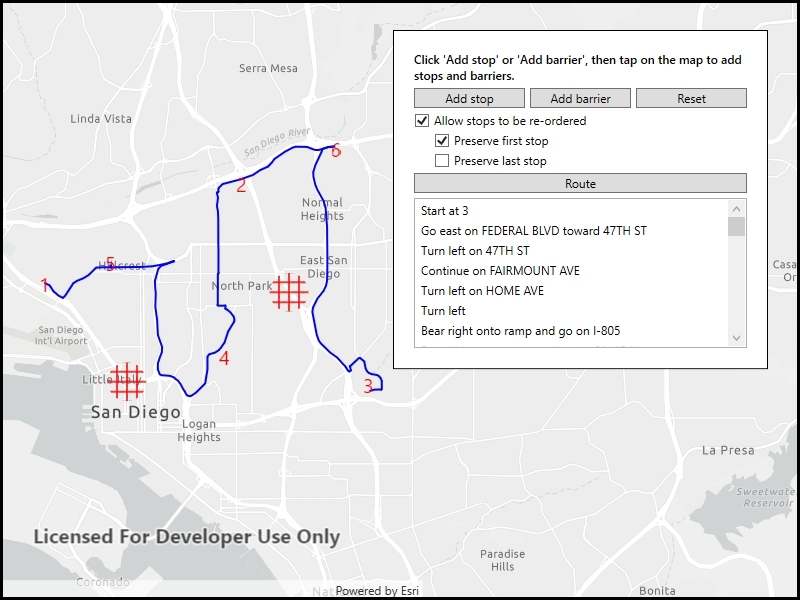
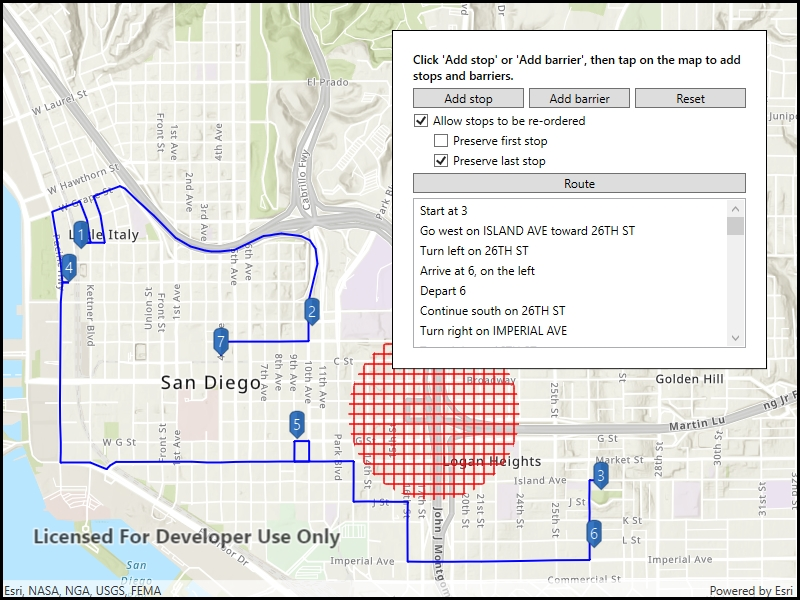
Changes from review

diff --git a/src/Forms/Shared/Samples/Network Analysis/RouteAroundBarriers/RouteAroundBarriers.xaml b/src/Forms/Shared/Samples/Network Analysis/RouteAroundBarriers/RouteAroundBarriers.xaml
@@ -7,7 +7,8 @@
     <RelativeLayout>
         <esriUI:MapView x:Name="MyMapView" Style="{StaticResource MapWithFormStyle}"
                         BindingContext="{x:Reference Name=ResponsiveFormContainer}"
-                        GeoViewTapped="MyMapView_OnGeoViewTapped"/>
+                        GeoViewTapped="MyMapView_OnGeoViewTapped" 
+                        ViewInsets="0,250,0,0"/>
         <resources:ResponsiveFormContainer x:Name="ResponsiveFormContainer">
             <Grid>
                 <Grid.RowDefinitions>

diff --git a/src/Forms/Shared/Samples/Network Analysis/RouteAroundBarriers/RouteAroundBarriers.xaml.cs b/src/Forms/Shared/Samples/Network Analysis/RouteAroundBarriers/RouteAroundBarriers.xaml.cs
@@ -67,7 +67,7 @@ namespace ArcGISRuntimeXamarin.Samples.RouteAroundBarriers
                 UpdateInterfaceState(SampleState.NotReady);
 
                 // Create the map with a basemap.
-                Map sampleMap = new Map(Basemap.CreateTopographicVector());
+                Map sampleMap = new Map(Basemap.CreateTopographic());
                 sampleMap.InitialViewpoint = new Viewpoint(32.7157, -117.1611, 1e5);
                 MyMapView.Map = sampleMap;
 
@@ -153,7 +153,7 @@ namespace ArcGISRuntimeXamarin.Samples.RouteAroundBarriers
 
             if (_stopsOverlay.Graphics.Count < 2)
             {
-                ShowMessage("Not enough stops", "Add at least two stops before trying to route.");
+                ShowMessage("Not enough stops", "Add at least two stops before solving a route.");
                 return;
             }
 

diff --git a/src/Android/Xamarin.Android/Samples/Network Analysis/RouteAroundBarriers/RouteAroundBarriers.cs b/src/Android/Xamarin.Android/Samples/Network Analysis/RouteAroundBarriers/RouteAroundBarriers.cs
@@ -92,7 +92,7 @@ namespace ArcGISRuntimeXamarin.Samples.RouteAroundBarriers
                 UpdateInterfaceState(SampleState.NotReady);
 
                 // Create the map with a basemap.
-                Map sampleMap = new Map(Basemap.CreateTopographicVector());
+                Map sampleMap = new Map(Basemap.CreateTopographic());
                 sampleMap.InitialViewpoint = new Viewpoint(32.7157, -117.1611, 1e5);
                 _mapView.Map = sampleMap;
 
@@ -211,7 +211,7 @@ namespace ArcGISRuntimeXamarin.Samples.RouteAroundBarriers
 
             if (_stopsOverlay.Graphics.Count < 2)
             {
-                ShowMessage("Not enough stops", "Add at least two stops before trying to route.");
+                ShowMessage("Not enough stops", "Add at least two stops before solving a route.");
                 return;
             }
 

diff --git a/src/iOS/Xamarin.iOS/Samples/Network Analysis/RouteAroundBarriers/RouteAroundBarriers.cs b/src/iOS/Xamarin.iOS/Samples/Network Analysis/RouteAroundBarriers/RouteAroundBarriers.cs
@@ -182,7 +182,7 @@ namespace ArcGISRuntimeXamarin.Samples.RouteAroundBarriers
 
             if (_stopsOverlay.Graphics.Count < 2)
             {
-                ShowMessage("Not enough stops", "Add at least two stops before trying to route.");
+                ShowMessage("Not enough stops", "Add at least two stops before solving a route.");
                 return;
             }
 

diff --git a/src/UWP/ArcGISRuntime.UWP.Viewer/Samples/Network Analysis/RouteAroundBarriers/RouteAroundBarriers.xaml.cs b/src/UWP/ArcGISRuntime.UWP.Viewer/Samples/Network Analysis/RouteAroundBarriers/RouteAroundBarriers.xaml.cs
@@ -154,7 +154,7 @@ namespace ArcGISRuntime.UWP.Samples.RouteAroundBarriers
 
             if (_stopsOverlay.Graphics.Count < 2)
             {
-                ShowMessage("Not enough stops", "Add at least two stops before trying to route.");
+                ShowMessage("Not enough stops", "Add at least two stops before solving a route.");
                 return;
             }
 

diff --git a/src/WPF/ArcGISRuntime.WPF.Viewer/Samples/Network Analysis/RouteAroundBarriers/RouteAroundBarriers.xaml.cs b/src/WPF/ArcGISRuntime.WPF.Viewer/Samples/Network Analysis/RouteAroundBarriers/RouteAroundBarriers.xaml.cs
@@ -154,7 +154,7 @@ namespace ArcGISRuntime.WPF.Samples.RouteAroundBarriers
 
             if (_stopsOverlay.Graphics.Count < 2)
             {
-                ShowMessage("Not enough stops", "Add at least two stops before trying to route.");
+                ShowMessage("Not enough stops", "Add at least two stops before solving a route.");
                 return;
             }
 

diff --git a/src/Android/Xamarin.Android/Samples/Network Analysis/RouteAroundBarriers/readme.md b/src/Android/Xamarin.Android/Samples/Network Analysis/RouteAroundBarriers/readme.md
@@ -6,7 +6,9 @@ Find a route that reaches all stops without crossing any barriers.
 
 ## Use case
 
-You can define barriers to avoid unsafe areas, for example flooded roads, when planning the most efficient route to evacuate a hurricane zone. You could also use this functionality to plan routes when you know an area will be inaccessible due to a community activity like a run or a market night.
+You can define barriers to avoid unsafe areas, for example flooded roads, when planning the most efficient route to evacuate a hurricane zone. When solving a route, barriers allow you to define portions of the road network that cannot be traversed. You could also use this functionality to plan routes when you know an area will be inaccessible due to a community activity like an organized race or a market night.
+
+In some situations, it is further beneficial to find the most efficient route that reaches all stops, reordering them to reduce travel time. For example, a delivery service may target a number of drop-off addresses, specifically looking to avoid congested areas or closed roads, arranging the stops in the most time-effective order.
 
 ## How to use the sample
 
@@ -14,26 +16,26 @@ Click 'Add stop' to add stops to the route. Click 'Add barrier' to add areas tha
 
 ## How it works
 
-1. Create the route task by calling `RouteTask.CreateAsync(_serviceUrl)`.
+1. Create the route task by calling `RouteTask.CreateAsync(_serviceUrl)` with the URL to a Network Analysis route service.
 2. Get the default route parameters for the service by calling `_routeTask.CreateDefaultParametersAsync`.
 3. When the user adds a stop, add it to the route parameters.
-    1. Normalize the geometry; otherwise the route job would fail if the user included any stops over the international date line.
+    1. Normalize the geometry; otherwise the route job would fail if the user included any stops over the 180th degree meridian.
     2. Get the name of the stop by counting the existing stops - `_stepsOverlay.Graphics.Count + 1`.
-    3. Create a composite symbol for the stop, combining a pushpin marker and a text symbol.
+    3. Create a composite symbol for the stop. This sample uses a pushpin marker and a text symbol.
     4. Create the graphic from the geometry and the symbol.
-    5. Add the graphic to the stops graphics overlay
+    5. Add the graphic to the stops graphics overlay.
 4. When the user adds a barrier, create a polygon barrier and add it to the route parameters.
-    1. Normalize the geometry (see **3a** above).
-    2. Buffer the geometry to create a larger barrier from the tapped point by calling `GeometryEngine.BufferGeodetic(mapLocation, 500, LinearUnits.Meters)`
+    1. Normalize the geometry (see **3i** above).
+    2. Buffer the geometry to create a larger barrier from the tapped point by calling `GeometryEngine.BufferGeodetic(mapLocation, 500, LinearUnits.Meters)`.
     3. Create the graphic from the geometry and the symbol.
     4. Add the graphic to the barriers overlay.
 5. When ready to find the route, configure the route parameters.
-    1. Set the `ReturnStops` and `ReturnDirections` to true
+    1. Set the `ReturnStops` and `ReturnDirections` to `true`.
     2. Create a `Stop` for each graphic in the stops graphics overlay. Add that stop to a list, then call `_routeParameters.SetStops(routeStops)`.
     3. Create a `PolygonBarrier` for each graphic in the barriers graphics overlay. Add that barrier to a list, then call `_routeParameters.SetPolygonBarriers(routeBarriers)`.
-    4. If the user will accept routes with the stops in any order, set `FindBestSequence` to true to find the most optimal route.
-    5. If the user has a definite start point, set `PreserveFirstStop` to true.
-    6. If the user has a definite final destination, set `PreserveLastStop` to true.
+    4. If the user will accept routes with the stops in any order, set `FindBestSequence` to `true` to find the most optimal route.
+    5. If the user has a definite start point, set `PreserveFirstStop` to `true`.
+    6. If the user has a definite final destination, set `PreserveLastStop` to `true`.
 6. Calculate and display the route.
     1. Call `_routeTask.SolveRouteAsync(_routeParameters)` to get a `RouteResult`.
     2. Get the first returned route by calling `calculatedRoute.Routes.First()`.
@@ -60,6 +62,10 @@ Click 'Add stop' to add stops to the route. Click 'Add barrier' to add areas tha
 * RouteTask
 * Stop
 * Stop.Name
+
+## About the data
+
+This sample uses an Esri-hosted sample street network for San Diego.
 
 ## Tags
 

diff --git a/src/Forms/Shared/Samples/Network Analysis/RouteAroundBarriers/readme.md b/src/Forms/Shared/Samples/Network Analysis/RouteAroundBarriers/readme.md
@@ -6,7 +6,9 @@ Find a route that reaches all stops without crossing any barriers.
 
 ## Use case
 
-You can define barriers to avoid unsafe areas, for example flooded roads, when planning the most efficient route to evacuate a hurricane zone. You could also use this functionality to plan routes when you know an area will be inaccessible due to a community activity like a run or a market night.
+You can define barriers to avoid unsafe areas, for example flooded roads, when planning the most efficient route to evacuate a hurricane zone. When solving a route, barriers allow you to define portions of the road network that cannot be traversed. You could also use this functionality to plan routes when you know an area will be inaccessible due to a community activity like an organized race or a market night.
+
+In some situations, it is further beneficial to find the most efficient route that reaches all stops, reordering them to reduce travel time. For example, a delivery service may target a number of drop-off addresses, specifically looking to avoid congested areas or closed roads, arranging the stops in the most time-effective order.
 
 ## How to use the sample
 
@@ -14,26 +16,26 @@ Click 'Add stop' to add stops to the route. Click 'Add barrier' to add areas tha
 
 ## How it works
 
-1. Create the route task by calling `RouteTask.CreateAsync(_serviceUrl)`.
+1. Create the route task by calling `RouteTask.CreateAsync(_serviceUrl)` with the URL to a Network Analysis route service.
 2. Get the default route parameters for the service by calling `_routeTask.CreateDefaultParametersAsync`.
 3. When the user adds a stop, add it to the route parameters.
-    1. Normalize the geometry; otherwise the route job would fail if the user included any stops over the international date line.
+    1. Normalize the geometry; otherwise the route job would fail if the user included any stops over the 180th degree meridian.
     2. Get the name of the stop by counting the existing stops - `_stepsOverlay.Graphics.Count + 1`.
-    3. Create a composite symbol for the stop, combining a pushpin marker and a text symbol.
+    3. Create a composite symbol for the stop. This sample uses a pushpin marker and a text symbol.
     4. Create the graphic from the geometry and the symbol.
-    5. Add the graphic to the stops graphics overlay
+    5. Add the graphic to the stops graphics overlay.
 4. When the user adds a barrier, create a polygon barrier and add it to the route parameters.
-    1. Normalize the geometry (see **3a** above).
-    2. Buffer the geometry to create a larger barrier from the tapped point by calling `GeometryEngine.BufferGeodetic(mapLocation, 500, LinearUnits.Meters)`
+    1. Normalize the geometry (see **3i** above).
+    2. Buffer the geometry to create a larger barrier from the tapped point by calling `GeometryEngine.BufferGeodetic(mapLocation, 500, LinearUnits.Meters)`.
     3. Create the graphic from the geometry and the symbol.
     4. Add the graphic to the barriers overlay.
 5. When ready to find the route, configure the route parameters.
-    1. Set the `ReturnStops` and `ReturnDirections` to true
+    1. Set the `ReturnStops` and `ReturnDirections` to `true`.
     2. Create a `Stop` for each graphic in the stops graphics overlay. Add that stop to a list, then call `_routeParameters.SetStops(routeStops)`.
     3. Create a `PolygonBarrier` for each graphic in the barriers graphics overlay. Add that barrier to a list, then call `_routeParameters.SetPolygonBarriers(routeBarriers)`.
-    4. If the user will accept routes with the stops in any order, set `FindBestSequence` to true to find the most optimal route.
-    5. If the user has a definite start point, set `PreserveFirstStop` to true.
-    6. If the user has a definite final destination, set `PreserveLastStop` to true.
+    4. If the user will accept routes with the stops in any order, set `FindBestSequence` to `true` to find the most optimal route.
+    5. If the user has a definite start point, set `PreserveFirstStop` to `true`.
+    6. If the user has a definite final destination, set `PreserveLastStop` to `true`.
 6. Calculate and display the route.
     1. Call `_routeTask.SolveRouteAsync(_routeParameters)` to get a `RouteResult`.
     2. Get the first returned route by calling `calculatedRoute.Routes.First()`.
@@ -60,6 +62,10 @@ Click 'Add stop' to add stops to the route. Click 'Add barrier' to add areas tha
 * RouteTask
 * Stop
 * Stop.Name
+
+## About the data
+
+This sample uses an Esri-hosted sample street network for San Diego.
 
 ## Tags
 

diff --git a/src/UWP/ArcGISRuntime.UWP.Viewer/Samples/Network Analysis/RouteAroundBarriers/readme.md b/src/UWP/ArcGISRuntime.UWP.Viewer/Samples/Network Analysis/RouteAroundBarriers/readme.md
@@ -6,7 +6,9 @@ Find a route that reaches all stops without crossing any barriers.
 
 ## Use case
 
-You can define barriers to avoid unsafe areas, for example flooded roads, when planning the most efficient route to evacuate a hurricane zone. You could also use this functionality to plan routes when you know an area will be inaccessible due to a community activity like a run or a market night.
+You can define barriers to avoid unsafe areas, for example flooded roads, when planning the most efficient route to evacuate a hurricane zone. When solving a route, barriers allow you to define portions of the road network that cannot be traversed. You could also use this functionality to plan routes when you know an area will be inaccessible due to a community activity like an organized race or a market night.
+
+In some situations, it is further beneficial to find the most efficient route that reaches all stops, reordering them to reduce travel time. For example, a delivery service may target a number of drop-off addresses, specifically looking to avoid congested areas or closed roads, arranging the stops in the most time-effective order.
 
 ## How to use the sample
 
@@ -14,26 +16,26 @@ Click 'Add stop' to add stops to the route. Click 'Add barrier' to add areas tha
 
 ## How it works
 
-1. Create the route task by calling `RouteTask.CreateAsync(_serviceUrl)`.
+1. Create the route task by calling `RouteTask.CreateAsync(_serviceUrl)` with the URL to a Network Analysis route service.
 2. Get the default route parameters for the service by calling `_routeTask.CreateDefaultParametersAsync`.
 3. When the user adds a stop, add it to the route parameters.
-    1. Normalize the geometry; otherwise the route job would fail if the user included any stops over the international date line.
+    1. Normalize the geometry; otherwise the route job would fail if the user included any stops over the 180th degree meridian.
     2. Get the name of the stop by counting the existing stops - `_stepsOverlay.Graphics.Count + 1`.
-    3. Create a composite symbol for the stop, combining a pushpin marker and a text symbol.
+    3. Create a composite symbol for the stop. This sample uses a pushpin marker and a text symbol.
     4. Create the graphic from the geometry and the symbol.
-    5. Add the graphic to the stops graphics overlay
+    5. Add the graphic to the stops graphics overlay.
 4. When the user adds a barrier, create a polygon barrier and add it to the route parameters.
-    1. Normalize the geometry (see **3a** above).
-    2. Buffer the geometry to create a larger barrier from the tapped point by calling `GeometryEngine.BufferGeodetic(mapLocation, 500, LinearUnits.Meters)`
+    1. Normalize the geometry (see **3i** above).
+    2. Buffer the geometry to create a larger barrier from the tapped point by calling `GeometryEngine.BufferGeodetic(mapLocation, 500, LinearUnits.Meters)`.
     3. Create the graphic from the geometry and the symbol.
     4. Add the graphic to the barriers overlay.
 5. When ready to find the route, configure the route parameters.
-    1. Set the `ReturnStops` and `ReturnDirections` to true
+    1. Set the `ReturnStops` and `ReturnDirections` to `true`.
     2. Create a `Stop` for each graphic in the stops graphics overlay. Add that stop to a list, then call `_routeParameters.SetStops(routeStops)`.
     3. Create a `PolygonBarrier` for each graphic in the barriers graphics overlay. Add that barrier to a list, then call `_routeParameters.SetPolygonBarriers(routeBarriers)`.
-    4. If the user will accept routes with the stops in any order, set `FindBestSequence` to true to find the most optimal route.
-    5. If the user has a definite start point, set `PreserveFirstStop` to true.
-    6. If the user has a definite final destination, set `PreserveLastStop` to true.
+    4. If the user will accept routes with the stops in any order, set `FindBestSequence` to `true` to find the most optimal route.
+    5. If the user has a definite start point, set `PreserveFirstStop` to `true`.
+    6. If the user has a definite final destination, set `PreserveLastStop` to `true`.
 6. Calculate and display the route.
     1. Call `_routeTask.SolveRouteAsync(_routeParameters)` to get a `RouteResult`.
     2. Get the first returned route by calling `calculatedRoute.Routes.First()`.
@@ -60,6 +62,10 @@ Click 'Add stop' to add stops to the route. Click 'Add barrier' to add areas tha
 * RouteTask
 * Stop
 * Stop.Name
+
+## About the data
+
+This sample uses an Esri-hosted sample street network for San Diego.
 
 ## Tags
 

diff --git a/src/WPF/ArcGISRuntime.WPF.Viewer/Samples/Network Analysis/RouteAroundBarriers/readme.md b/src/WPF/ArcGISRuntime.WPF.Viewer/Samples/Network Analysis/RouteAroundBarriers/readme.md
@@ -6,7 +6,9 @@ Find a route that reaches all stops without crossing any barriers.
 
 ## Use case
 
-You can define barriers to avoid unsafe areas, for example flooded roads, when planning the most efficient route to evacuate a hurricane zone. You could also use this functionality to plan routes when you know an area will be inaccessible due to a community activity like a run or a market night.
+You can define barriers to avoid unsafe areas, for example flooded roads, when planning the most efficient route to evacuate a hurricane zone. When solving a route, barriers allow you to define portions of the road network that cannot be traversed. You could also use this functionality to plan routes when you know an area will be inaccessible due to a community activity like an organized race or a market night.
+
+In some situations, it is further beneficial to find the most efficient route that reaches all stops, reordering them to reduce travel time. For example, a delivery service may target a number of drop-off addresses, specifically looking to avoid congested areas or closed roads, arranging the stops in the most time-effective order.
 
 ## How to use the sample
 
@@ -14,26 +16,26 @@ Click 'Add stop' to add stops to the route. Click 'Add barrier' to add areas tha
 
 ## How it works
 
-1. Create the route task by calling `RouteTask.CreateAsync(_serviceUrl)`.
+1. Create the route task by calling `RouteTask.CreateAsync(_serviceUrl)` with the URL to a Network Analysis route service.
 2. Get the default route parameters for the service by calling `_routeTask.CreateDefaultParametersAsync`.
 3. When the user adds a stop, add it to the route parameters.
-    1. Normalize the geometry; otherwise the route job would fail if the user included any stops over the international date line.
+    1. Normalize the geometry; otherwise the route job would fail if the user included any stops over the 180th degree meridian.
     2. Get the name of the stop by counting the existing stops - `_stepsOverlay.Graphics.Count + 1`.
-    3. Create a composite symbol for the stop, combining a pushpin marker and a text symbol.
+    3. Create a composite symbol for the stop. This sample uses a pushpin marker and a text symbol.
     4. Create the graphic from the geometry and the symbol.
-    5. Add the graphic to the stops graphics overlay
+    5. Add the graphic to the stops graphics overlay.
 4. When the user adds a barrier, create a polygon barrier and add it to the route parameters.
-    1. Normalize the geometry (see **3a** above).
-    2. Buffer the geometry to create a larger barrier from the tapped point by calling `GeometryEngine.BufferGeodetic(mapLocation, 500, LinearUnits.Meters)`
+    1. Normalize the geometry (see **3i** above).
+    2. Buffer the geometry to create a larger barrier from the tapped point by calling `GeometryEngine.BufferGeodetic(mapLocation, 500, LinearUnits.Meters)`.
     3. Create the graphic from the geometry and the symbol.
     4. Add the graphic to the barriers overlay.
 5. When ready to find the route, configure the route parameters.
-    1. Set the `ReturnStops` and `ReturnDirections` to true
+    1. Set the `ReturnStops` and `ReturnDirections` to `true`.
     2. Create a `Stop` for each graphic in the stops graphics overlay. Add that stop to a list, then call `_routeParameters.SetStops(routeStops)`.
     3. Create a `PolygonBarrier` for each graphic in the barriers graphics overlay. Add that barrier to a list, then call `_routeParameters.SetPolygonBarriers(routeBarriers)`.
-    4. If the user will accept routes with the stops in any order, set `FindBestSequence` to true to find the most optimal route.
-    5. If the user has a definite start point, set `PreserveFirstStop` to true.
-    6. If the user has a definite final destination, set `PreserveLastStop` to true.
+    4. If the user will accept routes with the stops in any order, set `FindBestSequence` to `true` to find the most optimal route.
+    5. If the user has a definite start point, set `PreserveFirstStop` to `true`.
+    6. If the user has a definite final destination, set `PreserveLastStop` to `true`.
 6. Calculate and display the route.
     1. Call `_routeTask.SolveRouteAsync(_routeParameters)` to get a `RouteResult`.
     2. Get the first returned route by calling `calculatedRoute.Routes.First()`.
@@ -60,6 +62,10 @@ Click 'Add stop' to add stops to the route. Click 'Add barrier' to add areas tha
 * RouteTask
 * Stop
 * Stop.Name
+
+## About the data
+
+This sample uses an Esri-hosted sample street network for San Diego.
 
 ## Tags
 

diff --git a/src/iOS/Xamarin.iOS/Samples/Network Analysis/RouteAroundBarriers/readme.md b/src/iOS/Xamarin.iOS/Samples/Network Analysis/RouteAroundBarriers/readme.md
@@ -6,7 +6,9 @@ Find a route that reaches all stops without crossing any barriers.
 
 ## Use case
 
-You can define barriers to avoid unsafe areas, for example flooded roads, when planning the most efficient route to evacuate a hurricane zone. You could also use this functionality to plan routes when you know an area will be inaccessible due to a community activity like a run or a market night.
+You can define barriers to avoid unsafe areas, for example flooded roads, when planning the most efficient route to evacuate a hurricane zone. When solving a route, barriers allow you to define portions of the road network that cannot be traversed. You could also use this functionality to plan routes when you know an area will be inaccessible due to a community activity like an organized race or a market night.
+
+In some situations, it is further beneficial to find the most efficient route that reaches all stops, reordering them to reduce travel time. For example, a delivery service may target a number of drop-off addresses, specifically looking to avoid congested areas or closed roads, arranging the stops in the most time-effective order.
 
 ## How to use the sample
 
@@ -14,26 +16,26 @@ Tap 'Stop' to add stops to the route. Tap 'Barrier' to add areas that can't be c
 
 ## How it works
 
-1. Create the route task by calling `RouteTask.CreateAsync(_serviceUrl)`.
+1. Create the route task by calling `RouteTask.CreateAsync(_serviceUrl)` with the URL to a Network Analysis route service.
 2. Get the default route parameters for the service by calling `_routeTask.CreateDefaultParametersAsync`.
 3. When the user adds a stop, add it to the route parameters.
-    1. Normalize the geometry; otherwise the route job would fail if the user included any stops over the international date line.
+    1. Normalize the geometry; otherwise the route job would fail if the user included any stops over the 180th degree meridian.
     2. Get the name of the stop by counting the existing stops - `_stepsOverlay.Graphics.Count + 1`.
-    3. Create a composite symbol for the stop, combining a pushpin marker and a text symbol.
+    3. Create a composite symbol for the stop. This sample uses a pushpin marker and a text symbol.
     4. Create the graphic from the geometry and the symbol.
-    5. Add the graphic to the stops graphics overlay
+    5. Add the graphic to the stops graphics overlay.
 4. When the user adds a barrier, create a polygon barrier and add it to the route parameters.
-    1. Normalize the geometry (see **3a** above).
-    2. Buffer the geometry to create a larger barrier from the tapped point by calling `GeometryEngine.BufferGeodetic(mapLocation, 500, LinearUnits.Meters)`
+    1. Normalize the geometry (see **3i** above).
+    2. Buffer the geometry to create a larger barrier from the tapped point by calling `GeometryEngine.BufferGeodetic(mapLocation, 500, LinearUnits.Meters)`.
     3. Create the graphic from the geometry and the symbol.
     4. Add the graphic to the barriers overlay.
 5. When ready to find the route, configure the route parameters.
-    1. Set the `ReturnStops` and `ReturnDirections` to true
+    1. Set the `ReturnStops` and `ReturnDirections` to `true`.
     2. Create a `Stop` for each graphic in the stops graphics overlay. Add that stop to a list, then call `_routeParameters.SetStops(routeStops)`.
     3. Create a `PolygonBarrier` for each graphic in the barriers graphics overlay. Add that barrier to a list, then call `_routeParameters.SetPolygonBarriers(routeBarriers)`.
-    4. If the user will accept routes with the stops in any order, set `FindBestSequence` to true to find the most optimal route.
-    5. If the user has a definite start point, set `PreserveFirstStop` to true.
-    6. If the user has a definite final destination, set `PreserveLastStop` to true.
+    4. If the user will accept routes with the stops in any order, set `FindBestSequence` to `true` to find the most optimal route.
+    5. If the user has a definite start point, set `PreserveFirstStop` to `true`.
+    6. If the user has a definite final destination, set `PreserveLastStop` to `true`.
 6. Calculate and display the route.
     1. Call `_routeTask.SolveRouteAsync(_routeParameters)` to get a `RouteResult`.
     2. Get the first returned route by calling `calculatedRoute.Routes.First()`.
@@ -60,6 +62,10 @@ Tap 'Stop' to add stops to the route. Tap 'Barrier' to add areas that can't be c
 * RouteTask
 * Stop
 * Stop.Name
+
+## About the data
+
+This sample uses an Esri-hosted sample street network for San Diego.
 
 ## Tags
 
